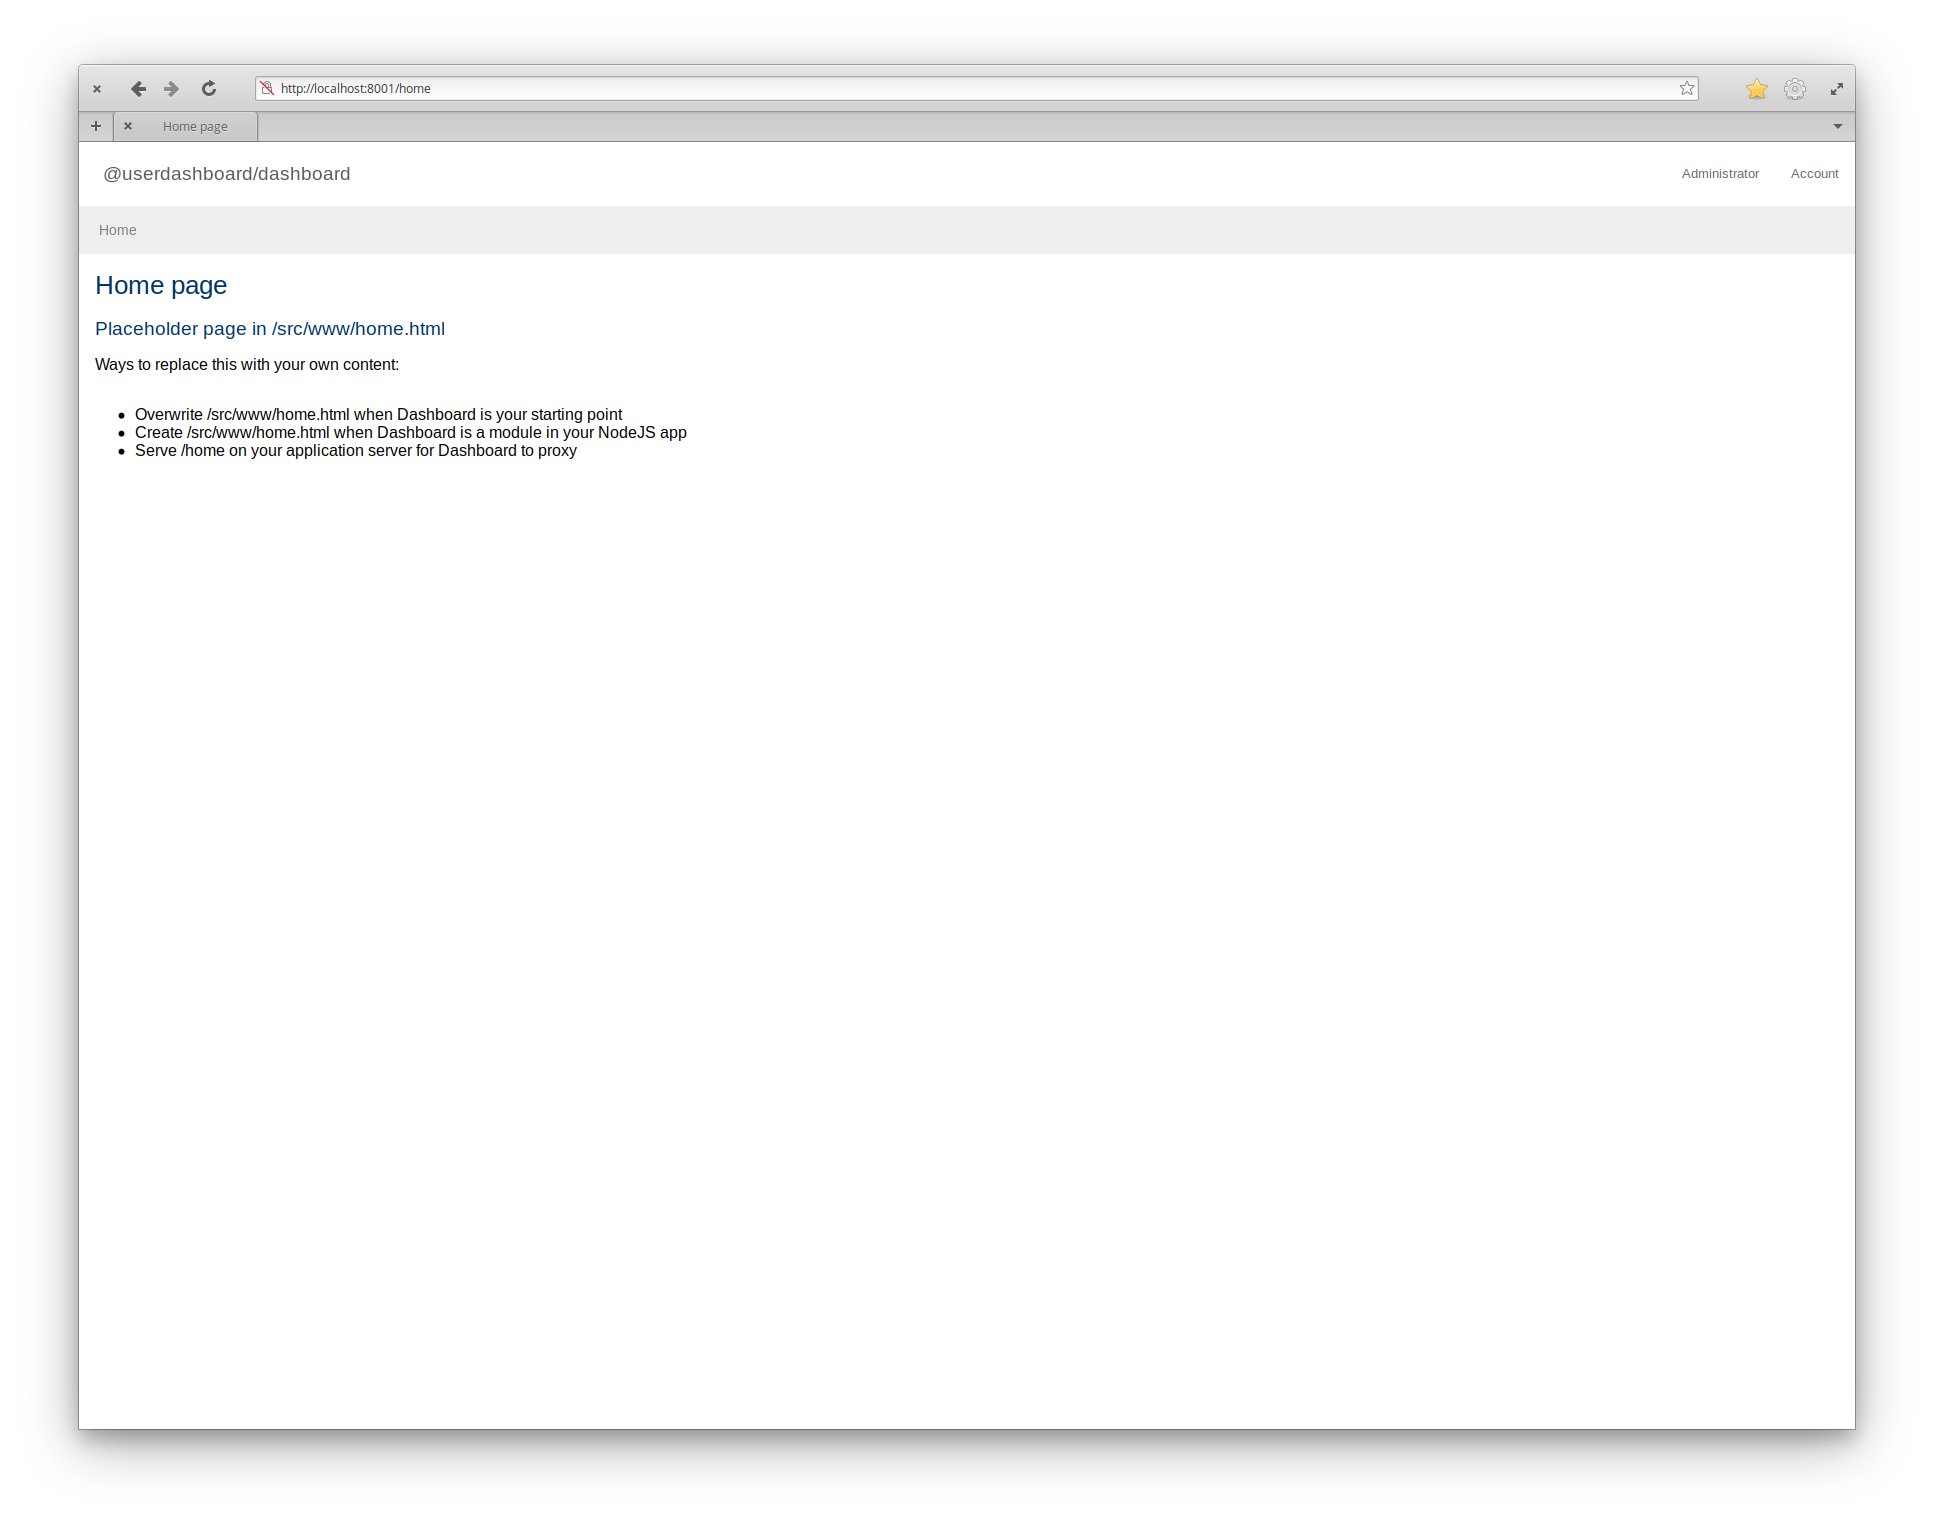
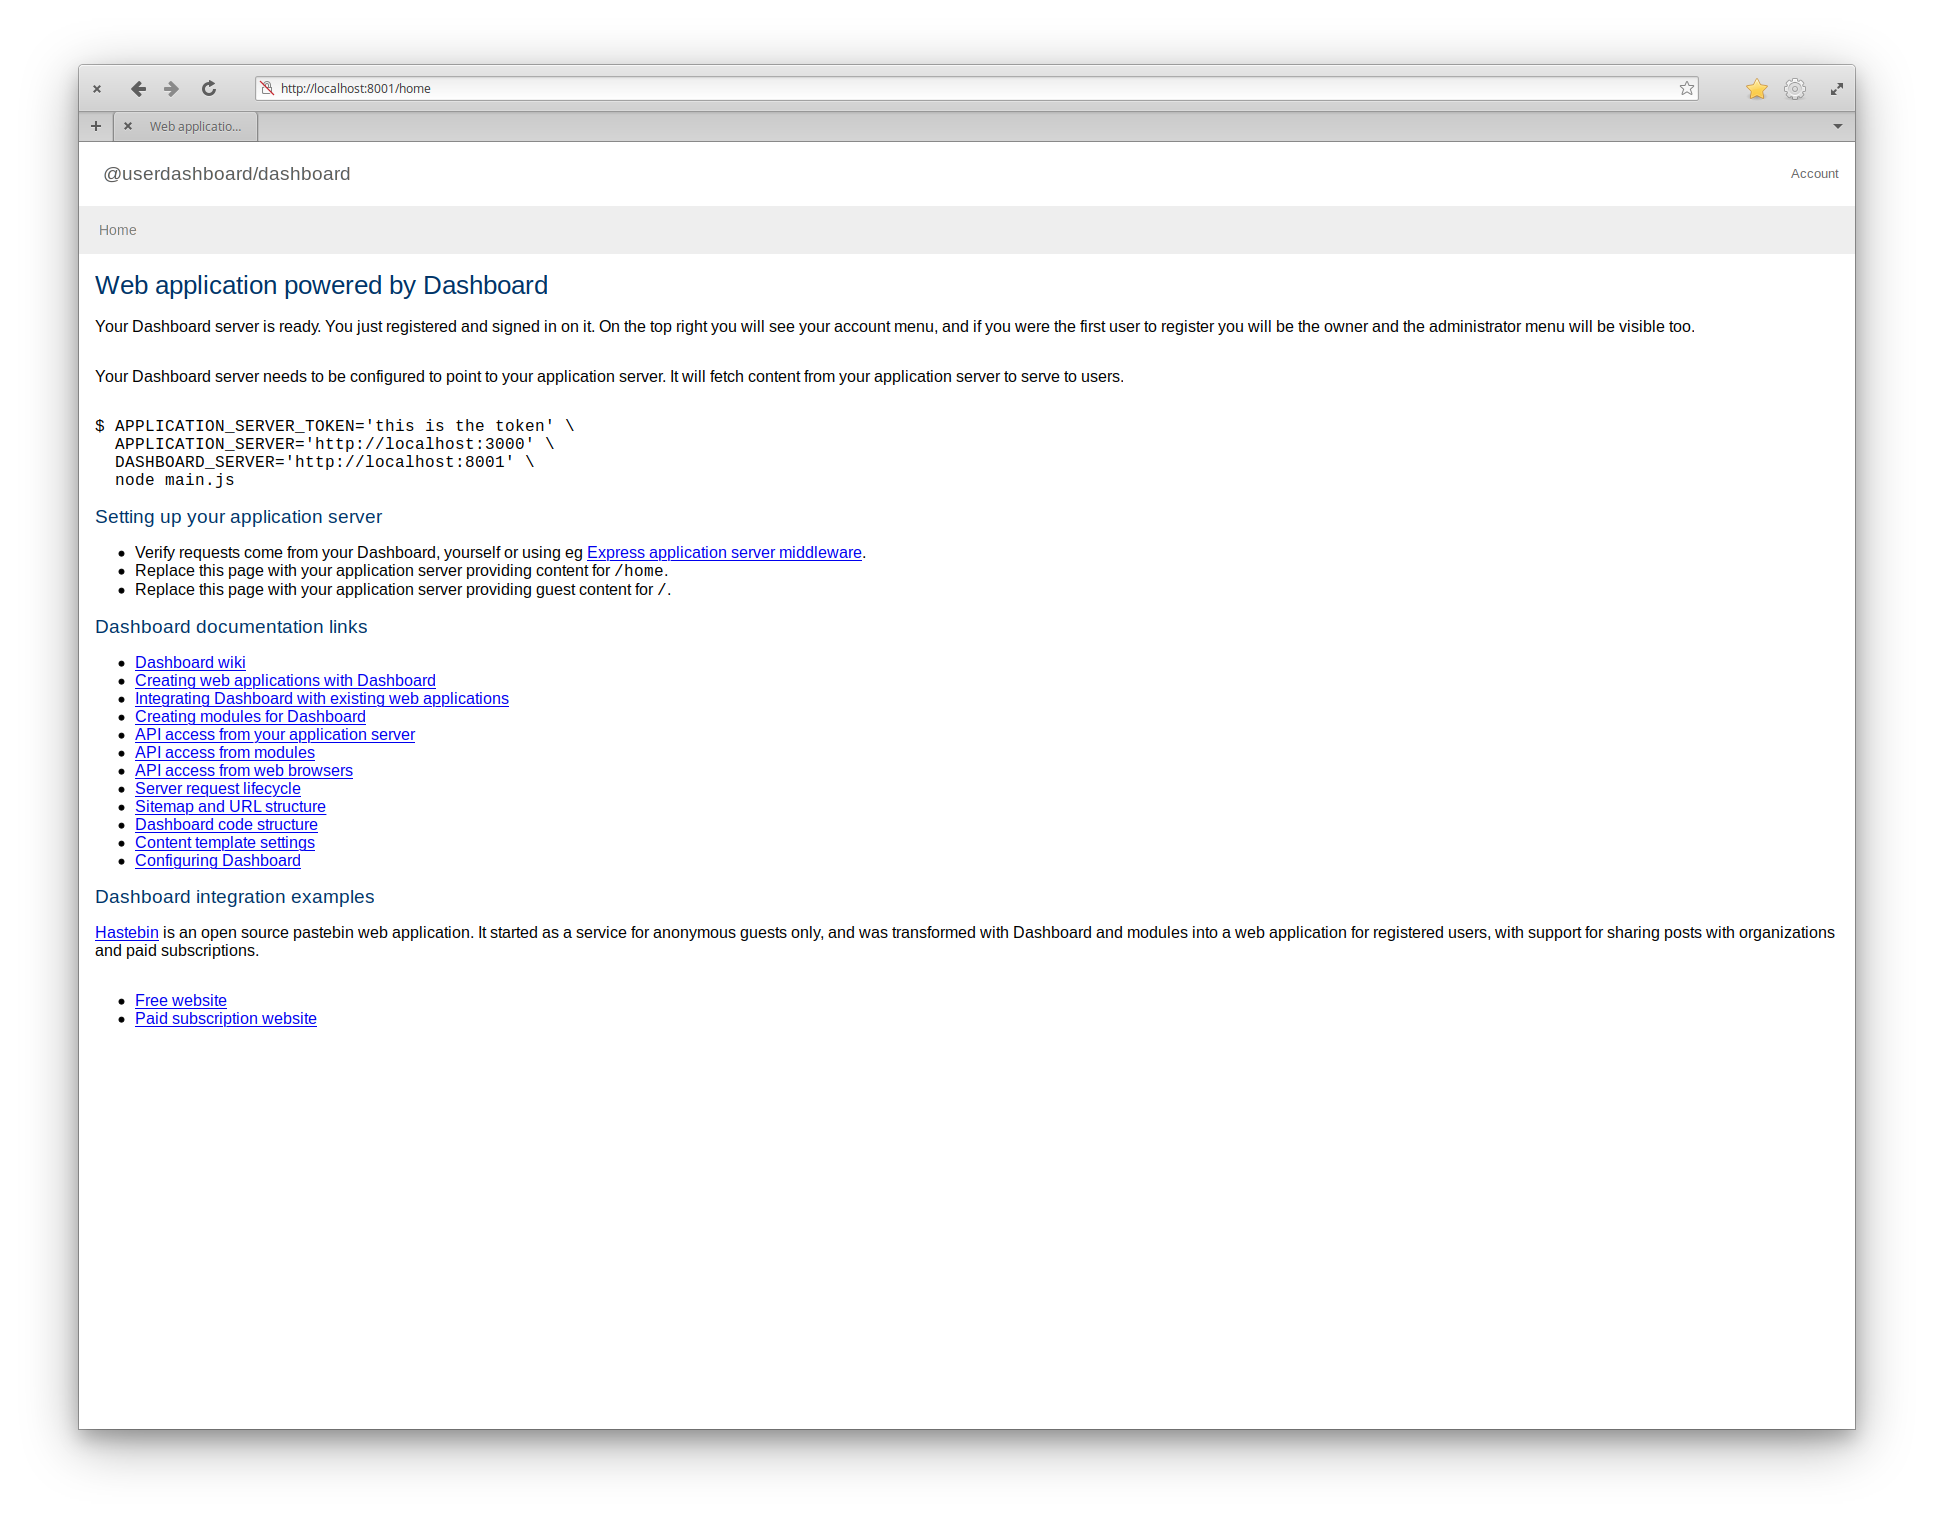
Updated sample home page with documentation links

diff --git a/src/www/home.html b/src/www/home.html
@@ -1,6 +1,6 @@
 <html>
   <head>
-    <title>Home page</title>
+    <title>Web application powered by Dashboard</title>
     <link href="/public/pure-min.css" rel="stylesheet" />
     <link href="/public/content.css" rel="stylesheet" />
     <template id="navbar">
@@ -9,13 +9,39 @@
     <base target="_top" href="/" />
   </head>
   <body>
-    <h1>Home page</h1>
-    <h2>Placeholder page in /src/www/home.html</h2>
-    <p>Ways to replace this with your own content:</p>
+    <h1>Web application powered by Dashboard</h1>
+    <p>Your Dashboard server is ready.  You just registered and signed in on it.  On the top right you will see your account menu, and if you were the first user to register you will be the owner and the administrator menu will be visible too.</p>  
+    <p>Your Dashboard server needs to be configured to point to your application server. It will fetch content from your application server to serve to users.</p>
+<pre>$ APPLICATION_SERVER_TOKEN="this is the token" \
+  APPLICATION_SERVER="http://localhost:3000" \
+  DASHBOARD_SERVER="http://localhost:8001" \
+  node main.js</pre>
+    <h2>Setting up your application server</h2>
     <ul>
-      <li>Overwrite /src/www/home.html when Dashboard is your starting point</li>
-      <li>Create /src/www/home.html when Dashboard is a module in your NodeJS app</li>
-      <li>Serve /home on your application server for Dashboard to proxy</li>
+      <li>Verify requests come from your Dashboard, yourself or using eg <a href="https://github.com/userdashboard/express-application-server">Express application server middleware</a>.</li>
+      <li>Replace this page with your application server providing content for <code>/home</code>.</li>
+      <li>Replace this page with your application server providing guest content for <code>/</code>.</li>
+    </ul>
+    <h2>Dashboard documentation links</h2>
+    <ul>
+      <li><a href="https://github.com/userdashboard/dashboard/wiki">Dashboard wiki</a></li>
+      <li><a href="https://github.com/userdashboard/dashboard/wiki/Creating-web-applications-with-Dashboard">Creating web applications with Dashboard</a></li>
+      <li><a href="https://github.com/userdashboard/dashboard/wiki/Integrating-Dashboard-with-existing-web-applications">Integrating Dashboard with existing web applications</a></li>
+      <li><a href="https://github.com/userdashboard/dashboard/wiki/Creating-modules-for-Dashboard">Creating modules for Dashboard</a></li>
+      <li><a href="https://github.com/userdashboard/dashboard/wiki/API-access-from-application-server">API access from your application server</a></li>
+      <li><a href="https://github.com/userdashboard/dashboard/wiki/API-access-from-module">API access from modules</a></li>
+      <li><a href="https://github.com/userdashboard/dashboard/wiki/API-access-from-web-browser">API access from web browsers</a></li>
+      <li><a href="https://github.com/userdashboard/dashboard/wiki/Server-request-lifecycle">Server request lifecycle</a></li>
+      <li><a href="https://github.com/userdashboard/dashboard/wiki/Sitemap-and-URL-structure">Sitemap and URL structure</a></li>
+      <li><a href="https://github.com/userdashboard/dashboard/wiki/Dashboard-code-structure">Dashboard code structure</a></li>
+      <li><a href="https://github.com/userdashboard/dashboard/wiki/Content-template-settings">Content template settings</a></li>
+      <li><a href="https://github.com/userdashboard/dashboard/wiki/Configuring-Dashboard">Configuring Dashboard</a></li> 
+    </ul>
+    <h2>Dashboard integration examples</h2>
+    <p><a href="https://github.com/seejohnrun/haste-server">Hastebin</a> is an open source pastebin web application.  It started as a service for anonymous guests only, and was transformed with Dashboard and modules into a web application for registered users, with support for sharing posts with organizations and paid subscriptions.</p>
+    <ul>
+      <li><a href="https://github.com/userdashboard/integration-examples/blob/master/hastebin/hastebin-saas-free.md">Free website</a></li>
+      <li><a href="https://github.com/userdashboard/integration-examples/blob/master/hastebin/hastebin-saas-subscription.md">Paid subscription website</a></li>
     </ul>
   </body> 
 </html>

diff --git a/src/www/index.html b/src/www/index.html
@@ -84,7 +84,7 @@ dashboard.start(__dirname)</textarea></div>
                 <p>User account management, authentication and sessions.</p>
                 <div>
                   <a href="https://github.com/userdashboard/dashboard">current release</a>
-                  <a href="https://github.com/userdashboard/dashboard/wiki">documentation</a>
+                  <a href="https://github.com/userdashboard/dashboard/blob/master/readme.md">readme.md</a>
                   <a href="https://github.com/userdashboard/dashboard/blob/master/sitemap.txt">sitemap.txt</a>
                   <a href="https://github.com/userdashboard/dashboard/blob/master/tests.txt">tests.txt</a>
                 </div>
@@ -97,7 +97,7 @@ dashboard.start(__dirname)</textarea></div>
                 <p>User-managed groups of users for sharing access.</p>
                 <div>
                     <a href="https://github.com/userdashboard/organizations">current release</a>
-                    <a href="https://github.com/userdashboard/organizations/wiki">documentation</a>
+                    <a href="https://github.com/userdashboard/organizations/blob/master/readme.md">readme.md</a>
                     <a href="https://github.com/userdashboard/organizations/blob/master/sitemap.txt">sitemap.txt</a>
                     <a href="https://github.com/userdashboard/organizations/blob/master/tests.txt">tests.txt</a>
                 </div>
@@ -110,7 +110,7 @@ dashboard.start(__dirname)</textarea></div>
                 <p>Subscription and payment processing by <a href="https://stripe.com">Stripe</a>.</p>
                 <div>
                     <a href="https://github.com/userdashboard/stripe-subscriptions">current release</a>
-                    <a href="https://github.com/userdashboard/stripe-subscriptions/wiki">documentation</a>
+                    <a href="https://github.com/userdashboard/stripe-subscriptions/blob/master/readme.md">readme.md</a>
                     <a href="https://github.com/userdashboard/stripe-subscriptions/blob/master/sitemap.txt">sitemap.txt</a>
                     <a href="https://github.com/userdashboard/stripe-subscriptions/blob/master/tests.txt">tests.txt</a>
                 </div>
@@ -123,7 +123,7 @@ dashboard.start(__dirname)</textarea></div>
                 <p>Platform registration and payments by <a href="https://stripe.com">Stripe</a>.</p>
                 <div>
                     <a href="https://github.com/userdashboard/stripe-connect">current release</a>
-                    <a href="https://github.com/userdashboard/stripe-connect/wiki">documentation</a>
+                    <a href="https://github.com/userdashboard/stripe-connect/blob/master/readme.md">readme.md</a>
                     <a href="https://github.com/userdashboard/stripe-connect/blob/master/sitemap.txt">sitemap.txt</a>
                     <a href="https://github.com/userdashboard/stripe-connect/blob/master/tests.txt">tests.txt</a>
                 </div>
